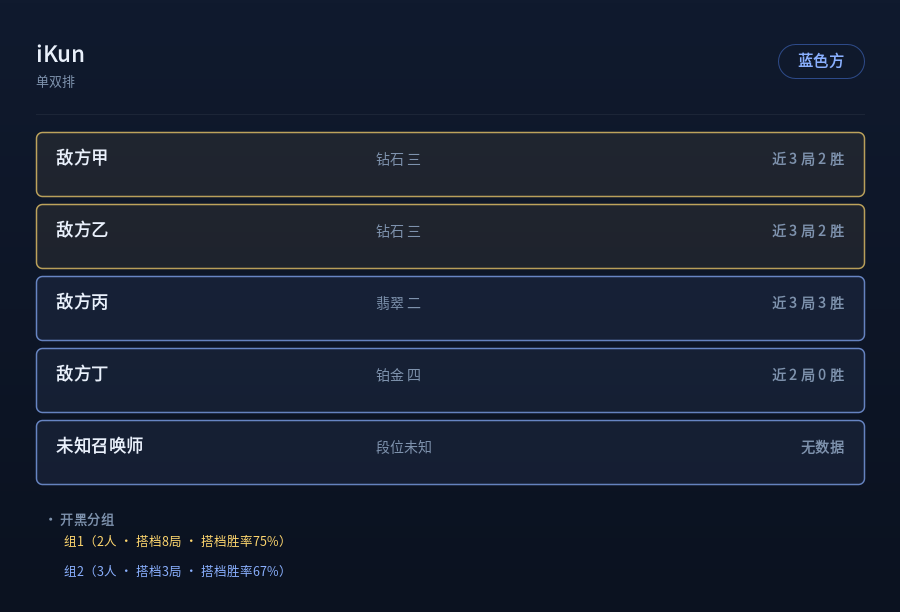
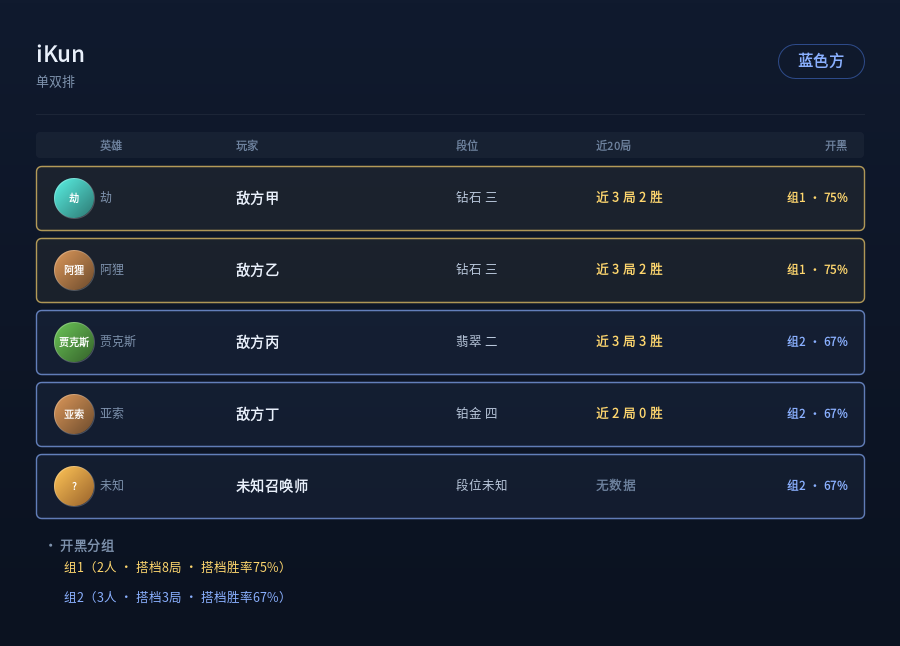
feat(intel): 情报卡改表格布局 + 英雄头像/英雄名上卡
- 渲染器改为 E 变体（数据密集表格）：英雄头像+英雄名+玩家名+段位+胜率+开黑列
- EnemyIntel.EnemyPlayer 加 championId/championName
- 编排层从段位快照读 championId 并经 GameDataService 转英雄中文名
- 渲染器注入 ChampionIconService 绘制真实英雄头像（失败降级色块圆盘）
- 迁移 V12：enemy_scout_rank 加 champion_id 字段
- ingest 存 championId（upsert 覆盖更新）
- 全量 370 测试通过

diff --git a/src/main/java/com/leagueakari/intel/IntelCardRendererImpl.java b/src/main/java/com/leagueakari/intel/IntelCardRendererImpl.java
@@ -11,6 +11,7 @@ import java.awt.FontMetrics;
 import java.awt.GradientPaint;
 import java.awt.Graphics2D;
 import java.awt.RenderingHints;
+import java.awt.geom.Ellipse2D;
 import java.awt.image.BufferedImage;
 import java.io.ByteArrayOutputStream;
 import java.io.IOException;
@@ -49,6 +50,15 @@ public class IntelCardRendererImpl implements IntelCardRenderer {
     private static final Color GOLD = new Color(0xffd76e);
     private static final Color ROW_BG = new Color(255, 255, 255, 9);
     private static final Color ROW_BORDER = new Color(255, 255, 255, 13);
+    private static final Color TEXT_KDA = new Color(0xb9c7db);
+
+    /** 英雄头像降级色块色板：按 championId 取模 */
+    private static final int[] HERO_COLORS = {
+            0xd98a3d, 0x2f6fdd, 0xa05ce6, 0xe0a21e, 0x3fa9a0,
+            0xc0392b, 0x4b8a3d, 0x7f5fc0, 0xb5532f, 0x3a7d5c,
+            0x5b8cff, 0xd94f6b, 0x4d9e8f, 0x9a6b3f, 0x6b5fd9,
+            0xcf7a3a, 0x2f8f6f, 0xb04d5a
+    };
 
     /** 开黑分组边框色板：按组序号取模（同组同色，视觉分组） */
     private static final Color[] GROUP_COLORS = {
@@ -64,6 +74,19 @@ public class IntelCardRendererImpl implements IntelCardRenderer {
     /** 内置思源黑体（classpath），懒加载一次 */
     private static volatile Font baseFont;
 
+    /** 英雄头像服务（null 时全部降级色块圆盘，供单测/降级路径） */
+    private final com.leagueakari.gamedata.ChampionIconService iconService;
+
+    /** 无头构造：不注入头像服务，头像一律降级色块圆盘（单测友好） */
+    public IntelCardRendererImpl() {
+        this.iconService = null;
+    }
+
+    /** Spring 构造：注入头像服务，绘制真实英雄头像 */
+    public IntelCardRendererImpl(com.leagueakari.gamedata.ChampionIconService iconService) {
+        this.iconService = iconService;
+    }
+
     @Override
     public byte[] render(EnemyIntel intel) {
         int height = layoutHeight(intel);
@@ -77,19 +100,20 @@ public class IntelCardRendererImpl implements IntelCardRenderer {
 
             int y = PAD;
             y = drawHeader(g, intel, y);
-            y = drawEnemies(g, intel, y);
+            y = drawTable(g, intel, y);
             return toPngBytes(image);
         } finally {
             g.dispose();
         }
     }
 
-    /** 卡片总高度：标题区 + 敌方行数 + 分组区 + 底边距 */
+    /** 卡片总高度：标题区 + 表头 + 敌方行数 + 分组区 + 底边距 */
     private int layoutHeight(EnemyIntel intel) {
         int headerH = 96;
+        int tableHeaderH = 34;
         int enemiesH = intel.getEnemies().size() * ROW_H;
         int groupsH = intel.getPremadeGroups().isEmpty() ? 40 : (36 + intel.getPremadeGroups().size() * 30);
-        return PAD + headerH + enemiesH + groupsH + 24;
+        return PAD + headerH + tableHeaderH + enemiesH + groupsH + 24;
     }
 
     /** 标题区：车队名 + 红蓝方胶囊 + 队列名 */
@@ -122,9 +146,9 @@ public class IntelCardRendererImpl implements IntelCardRenderer {
         return y + 96;
     }
 
-    /** 敌方 5 人行 + 开黑分组视觉 */
-    private int drawEnemies(Graphics2D g, EnemyIntel intel, int y) {
-        // 分组索引映射：puuid → 组序号（-1 = 未分组）
+    /** E 变体：数据密集表格（表头 + 每行头像/英雄名/玩家名/段位/胜率/开黑） */
+    private int drawTable(Graphics2D g, EnemyIntel intel, int y) {
+        // 分组索引映射：puuid → 组序号
         Map<String, Integer> groupIndexOf = new HashMap<>();
         List<PremadeDetector.PremadeGroup> groups = intel.getPremadeGroups();
         for (int i = 0; i < groups.size(); i++) {
@@ -132,47 +156,123 @@ public class IntelCardRendererImpl implements IntelCardRenderer {
                 groupIndexOf.put(puuid, i);
             }
         }
-
-        for (int i = 0; i < intel.getEnemies().size(); i++) {
-            EnemyIntel.EnemyPlayer e = intel.getEnemies().get(i);
-            int ry = y + i * ROW_H;
-            Integer groupIdx = groupIndexOf.get(e.getPuuid());
-            drawEnemyRow(g, e, ry, groupIdx);
+        // 组胜率（组序号 → PremadeWinRate，行内展示搭档胜率）
+        Map<Integer, EnemyIntel.PremadeWinRate> wrByGroup = new HashMap<>();
+        List<EnemyIntel.PremadeWinRate> winRates = intel.getPremadeWinRates();
+        for (int i = 0; i < groups.size(); i++) {
+            wrByGroup.put(i, winRates != null && i < winRates.size() ? winRates.get(i) : null);
         }
 
-        int groupsY = y + intel.getEnemies().size() * ROW_H + 12;
-        return drawGroups(g, intel, groupsY);
+        // 表头
+        int headerY = y;
+        drawTableHeader(g, headerY);
+
+        // 数据行
+        int rowY = y + 34;
+        for (int i = 0; i < intel.getEnemies().size(); i++) {
+            EnemyIntel.EnemyPlayer e = intel.getEnemies().get(i);
+            Integer groupIdx = groupIndexOf.get(e.getPuuid());
+            drawTableRow(g, e, rowY, i, groupIdx, groupIdx != null ? wrByGroup.get(groupIdx) : null);
+            rowY += ROW_H;
+        }
+
+        // 开黑分组说明（表格下方）
+        return drawGroups(g, intel, rowY + 4);
     }
 
-    /** 单个敌方玩家行：召唤师名 + 段位 + 窗口胜率 */
-    private void drawEnemyRow(Graphics2D g, EnemyIntel.EnemyPlayer e, int ry, Integer groupIdx) {
+    /** 表头：英雄 / 玩家 / 段位 / 近20局 / 开黑 */
+    private void drawTableHeader(Graphics2D g, int y) {
+        Font hf = font(11, Font.BOLD);
+        g.setColor(new Color(255, 255, 255, 10));
+        g.fillRoundRect(PAD, y, WIDTH - 2 * PAD, 26, 8, 8);
+        drawText(g, "英雄", PAD + 64, y + 18, hf, TEXT_DIM, LEFT);
+        drawText(g, "玩家", PAD + 200, y + 18, hf, TEXT_DIM, LEFT);
+        drawText(g, "段位", PAD + 420, y + 18, hf, TEXT_DIM, LEFT);
+        drawText(g, "近20局", PAD + 560, y + 18, hf, TEXT_DIM, LEFT);
+        drawText(g, "开黑", WIDTH - PAD - 16, y + 18, hf, TEXT_DIM, RIGHT);
+    }
+
+    /** 单个敌方玩家数据行 */
+    private void drawTableRow(Graphics2D g, EnemyIntel.EnemyPlayer e, int ry, int idx,
+                              Integer groupIdx, EnemyIntel.PremadeWinRate groupWr) {
         int rowH = ROW_H - 8;
-        // 行底（开黑组边框高亮，否则普通半透明底）
+        // 行底：开黑组边框高亮，否则普通半透明底
         Color border = ROW_BORDER;
         Color bg = ROW_BG;
         if (groupIdx != null) {
             Color gc = GROUP_COLORS[groupIdx % GROUP_COLORS.length];
-            border = new Color(gc.getRed(), gc.getGreen(), gc.getBlue(), 180);
-            bg = new Color(gc.getRed(), gc.getGreen(), gc.getBlue(), 18);
+            border = new Color(gc.getRed(), gc.getGreen(), gc.getBlue(), 170);
+            bg = new Color(gc.getRed(), gc.getGreen(), gc.getBlue(), 14);
         }
         g.setColor(bg);
-        g.fillRoundRect(PAD, ry, WIDTH - 2 * PAD, rowH, 12, 12);
+        g.fillRoundRect(PAD, ry, WIDTH - 2 * PAD, rowH, 10, 10);
         g.setColor(border);
-        g.setStroke(new BasicStroke(groupIdx != null ? 1.5f : 1f));
-        g.drawRoundRect(PAD, ry, WIDTH - 2 * PAD, rowH, 12, 12);
+        g.setStroke(new BasicStroke(groupIdx != null ? 1.4f : 1f));
+        g.drawRoundRect(PAD, ry, WIDTH - 2 * PAD, rowH, 10, 10);
 
-        // 左：召唤师名（缺失 → 未知）
+        int cy = ry + rowH / 2;
+        // 列1：头像（圆形裁切）+ 英雄名
+        drawAvatar(g, PAD + 18, cy - 20, 40, e);
+        drawText(g, e.getChampionName() == null ? "未知" : e.getChampionName(),
+                PAD + 64, cy + 4, font(12, Font.PLAIN), TEXT_SUB, LEFT);
+
+        // 列2：玩家名
         String name = e.getSummonerName() == null ? "未知召唤师" : e.getSummonerName();
-        drawTextFit(g, name, PAD + 20, ry + 32, font(17, Font.BOLD), TEXT_MAIN, 300);
+        drawTextFit(g, name, PAD + 200, cy + 5, font(14, Font.BOLD), TEXT_MAIN, 190);
 
-        // 中：段位（tier+rank，缺失 → 未知）
-        String rank = formatTier(e);
-        drawText(g, rank, PAD + 340, ry + 32, font(14, Font.PLAIN), TEXT_SUB, LEFT);
+        // 列3：段位
+        drawText(g, formatTier(e), PAD + 420, cy + 4, font(12.5f, Font.PLAIN), TEXT_KDA, LEFT);
 
-        // 右：窗口胜率（小样本标局数，不裸百分比）
+        // 列4：近20局窗口胜率
         String winRate = formatWinRate(e);
-        Color wrColor = winRate.startsWith("胜") ? GOLD : TEXT_SUB;
-        drawText(g, winRate, WIDTH - PAD - 20, ry + 32, font(14, Font.BOLD), wrColor, RIGHT);
+        Color wrColor = winRate.startsWith("近") && !winRate.contains("无数据") ? GOLD : TEXT_DIM;
+        drawText(g, winRate, PAD + 560, cy + 4, font(12.5f, Font.BOLD), wrColor, LEFT);
+
+        // 列5：开黑标识（组标签 + 搭档胜率）
+        if (groupIdx != null) {
+            Color gc = GROUP_COLORS[groupIdx % GROUP_COLORS.length];
+            String label = String.format("组%d · %s", groupIdx + 1, formatPremadeWinRate(groupWr));
+            drawText(g, label, WIDTH - PAD - 16, cy + 4, font(11.5f, Font.BOLD), gc, RIGHT);
+        } else {
+            drawText(g, "路人", WIDTH - PAD - 16, cy + 4, font(11.5f, Font.PLAIN), TEXT_DIM, RIGHT);
+        }
+    }
+
+    /** 英雄头像（圆形裁切）；无图标服务或加载失败降级色块圆盘 */
+    private void drawAvatar(Graphics2D g, int x, int y, int diameter, EnemyIntel.EnemyPlayer e) {
+        Integer championId = e.getChampionId();
+        BufferedImage icon = iconService == null || championId == null || championId <= 0
+                ? null : iconService.loadIcon(championId);
+        if (icon == null) {
+            drawHeroDot(g, x, y, diameter, e.getChampionName(), championId == null ? 0 : championId);
+            return;
+        }
+        Graphics2D g2 = (Graphics2D) g.create();
+        try {
+            g2.setClip(new Ellipse2D.Double(x, y, diameter, diameter));
+            g2.setRenderingHint(RenderingHints.KEY_INTERPOLATION, RenderingHints.VALUE_INTERPOLATION_BILINEAR);
+            g2.drawImage(icon, x, y, diameter, diameter, null);
+        } finally {
+            g2.dispose();
+        }
+        g.setColor(new Color(255, 255, 255, 60));
+        g.setStroke(new BasicStroke(1f));
+        g.draw(new Ellipse2D.Double(x + 0.5, y + 0.5, diameter - 1, diameter - 1));
+    }
+
+    /** 英雄色块圆盘降级底：渐变圆 + 中央英雄名 */
+    private void drawHeroDot(Graphics2D g, int x, int y, int diameter, String championName, int championId) {
+        int c = HERO_COLORS[Math.floorMod(championId, HERO_COLORS.length)];
+        Color a = new Color(c);
+        g.setPaint(new GradientPaint(x, y, a.brighter(), x + diameter, y + diameter, a.darker()));
+        g.fill(new Ellipse2D.Double(x, y, diameter, diameter));
+        g.setColor(new Color(255, 255, 255, 60));
+        g.setStroke(new BasicStroke(1f));
+        g.draw(new Ellipse2D.Double(x, y, diameter, diameter));
+        String name = championName == null ? "?" : championName;
+        int size = name.length() > 4 ? 8 : 10;
+        drawText(g, name, x + diameter / 2f, y + diameter / 2f + size / 2f - 1,
+                font(size, Font.BOLD), Color.WHITE, CENTER);
     }
 
     /** 开黑分组说明区 */

diff --git a/src/main/java/com/leagueakari/intel/IntelBroadcastService.java b/src/main/java/com/leagueakari/intel/IntelBroadcastService.java
@@ -60,6 +60,8 @@ public class IntelBroadcastService {
     private final PushProperties pushProperties;
     private final TeamProperties teamProperties;
     private final com.leagueakari.config.IntelProperties intelProperties;
+    /** 游戏静态资源：英雄 ID → 中文名（情报卡英雄名展示） */
+    private final com.leagueakari.gamedata.GameDataService gameDataService;
 
     private final ObjectMapper objectMapper = new ObjectMapper();
 
@@ -207,7 +209,7 @@ public class IntelBroadcastService {
         List<EnemyScoutMatch> matchRows = scoutMatchMapper.selectList(
                 new QueryWrapper<EnemyScoutMatch>().in("puuid", enemyPuids));
 
-        // 玩家行：段位 + 窗口胜率
+        // 玩家行：段位 + 窗口胜率 + 英雄（ID/中文名）
         List<EnemyIntel.EnemyPlayer> players = new ArrayList<>();
         for (String puuid : enemyPuids) {
             EnemyScoutRank rank = rankByPuuid.get(puuid);
@@ -218,12 +220,18 @@ public class IntelBroadcastService {
                     .toList();
             WindowWinRate winRate = WindowWinRate.of(puuid, wins);
             String summonerName = rank != null ? rank.getSummonerName() : firstSummonerName(matchRows, puuid);
+            // 英雄 ID 与中文名：段位快照携带的 championId，经 GameDataService 转换
+            Integer championId = rank != null ? rank.getChampionId() : null;
+            String championName = championId != null && championId > 0
+                    ? gameDataService.championName(championId) : null;
             players.add(new EnemyIntel.EnemyPlayer(
                     puuid,
                     summonerName,
                     rank != null ? rank.getTier() : null,
                     rank != null ? rank.getRank() : null,
-                    winRate));
+                    winRate,
+                    championId,
+                    championName));
         }
 
         // 开黑判定：把历史摘要按局聚合为同队分组，喂给 PremadeDetector

diff --git a/src/test/java/com/leagueakari/intel/IntelCardRendererImplTest.java b/src/test/java/com/leagueakari/intel/IntelCardRendererImplTest.java
@@ -93,11 +93,11 @@ class IntelCardRendererImplTest {
     void 生成样张归档() throws Exception {
         EnemyIntel intel = new EnemyIntel("iKun", 100, "单双排",
                 List.of(
-                        new EnemyIntel.EnemyPlayer("p1", "敌方甲", "DIAMOND", "III", WindowWinRate.of("p1", List.of(true, true, false))),
-                        new EnemyIntel.EnemyPlayer("p2", "敌方乙", "DIAMOND", "III", WindowWinRate.of("p2", List.of(true, false, true))),
-                        new EnemyIntel.EnemyPlayer("p3", "敌方丙", "EMERALD", "II", WindowWinRate.of("p3", List.of(true, true, true))),
-                        new EnemyIntel.EnemyPlayer("p4", "敌方丁", "PLATINUM", "IV", WindowWinRate.of("p4", List.of(false, false))),
-                        new EnemyIntel.EnemyPlayer("p5", null, null, null, WindowWinRate.of("p5", List.of()))
+                        new EnemyIntel.EnemyPlayer("p1", "敌方甲", "DIAMOND", "III", WindowWinRate.of("p1", List.of(true, true, false)), 238, "劫"),
+                        new EnemyIntel.EnemyPlayer("p2", "敌方乙", "DIAMOND", "III", WindowWinRate.of("p2", List.of(true, false, true)), 103, "阿狸"),
+                        new EnemyIntel.EnemyPlayer("p3", "敌方丙", "EMERALD", "II", WindowWinRate.of("p3", List.of(true, true, true)), 24, "贾克斯"),
+                        new EnemyIntel.EnemyPlayer("p4", "敌方丁", "PLATINUM", "IV", WindowWinRate.of("p4", List.of(false, false)), 157, "亚索"),
+                        new EnemyIntel.EnemyPlayer("p5", null, null, null, WindowWinRate.of("p5", List.of()), null, null)
                 ),
                 List.of(
                         new PremadeDetector.PremadeGroup(List.of("p1", "p2"), 8, List.of("m1", "m2", "m3", "m4", "m5", "m6", "m7", "m8")),

diff --git a/src/main/java/com/leagueakari/intel/EnemyIntel.java b/src/main/java/com/leagueakari/intel/EnemyIntel.java
@@ -38,6 +38,8 @@ public class EnemyIntel {
      * @param tier         大段位（缺失为 null，渲染"未知"）
      * @param rank         小段
      * @param winRate      窗口胜率（窗口内无对局为 null，渲染"无数据"）
+     * @param championId   选人阶段锁定的英雄 ID（渲染头像用；缺失为 null）
+     * @param championName 英雄中文名（缺失为 null，渲染"未知英雄"）
      */
     @Value
     public static class EnemyPlayer {
@@ -46,6 +48,25 @@ public class EnemyIntel {
         String tier;
         String rank;
         WindowWinRate winRate;
+        Integer championId;
+        String championName;
+
+        /** 全参构造（含英雄信息）：真实发卡路径用 */
+        public EnemyPlayer(String puuid, String summonerName, String tier, String rank,
+                           WindowWinRate winRate, Integer championId, String championName) {
+            this.puuid = puuid;
+            this.summonerName = summonerName;
+            this.tier = tier;
+            this.rank = rank;
+            this.winRate = winRate;
+            this.championId = championId;
+            this.championName = championName;
+        }
+
+        /** 便捷构造（无英雄信息）：测试/降级场景用，championId/championName 置 null */
+        public EnemyPlayer(String puuid, String summonerName, String tier, String rank, WindowWinRate winRate) {
+            this(puuid, summonerName, tier, rank, winRate, null, null);
+        }
     }
 
     /**

diff --git a/src/main/java/com/leagueakari/intel/ScoutIngestService.java b/src/main/java/com/leagueakari/intel/ScoutIngestService.java
@@ -75,12 +75,13 @@ public class ScoutIngestService {
         Long exists = rankMapper.selectCount(
                 new QueryWrapper<EnemyScoutRank>().eq("puuid", p.getPuuid()));
         if (exists != null && exists > 0) {
-            // 已存在：覆盖更新（改名/升段）
+            // 已存在：覆盖更新（改名/升段/英雄）
             rankMapper.update(new EnemyScoutRank(), new UpdateWrapper<EnemyScoutRank>()
                     .set("summoner_name", p.getSummonerName())
                     .set("queue_type", p.getQueueType())
                     .set("tier", p.getTier())
                     .set("rank", p.getRank())
+                    .set("champion_id", p.getChampionId())
                     .eq("puuid", p.getPuuid()));
             return;
         }
@@ -91,6 +92,7 @@ public class ScoutIngestService {
         rank.setQueueType(p.getQueueType());
         rank.setTier(p.getTier());
         rank.setRank(p.getRank());
+        rank.setChampionId(p.getChampionId());
         rank.setCreatedAt(LocalDateTime.now());
         rank.setUpdatedAt(LocalDateTime.now());
         rankMapper.insert(rank);

diff --git a/src/test/java/com/leagueakari/intel/IntelBroadcastServiceTest.java b/src/test/java/com/leagueakari/intel/IntelBroadcastServiceTest.java
@@ -47,6 +47,8 @@ class IntelBroadcastServiceTest {
     private QqBotClient qqBotClient;
     @Mock
     private IntelCardRenderer renderer;
+    @Mock
+    private com.leagueakari.gamedata.GameDataService gameDataService;
 
     private PushProperties pushProperties;
     private TeamProperties teamProperties;
@@ -67,7 +69,8 @@ class IntelBroadcastServiceTest {
         intelProperties.setPremadeDetectThreshold(2);
         service = new IntelBroadcastService(
                 gameStartMapper, scoutMatchMapper, scoutRankMapper,
-                rosterService, qqBotClient, renderer, pushProperties, teamProperties, intelProperties);
+                rosterService, qqBotClient, renderer, pushProperties, teamProperties, intelProperties,
+                gameDataService);
     }
 
     /** 造一个车队成员（身份集合含 p1/p2） */

diff --git a/src/main/java/com/leagueakari/dto/intel/ScoutSyncRequest.java b/src/main/java/com/leagueakari/dto/intel/ScoutSyncRequest.java
@@ -42,6 +42,9 @@ public class ScoutSyncRequest {
 
         /** 小段（如 I/II/III/IV） */
         private String rank;
+
+        /** 选人阶段锁定的英雄 ID（情报卡英雄头像/英雄名原料） */
+        private Integer championId;
     }
 
     /** 一局历史对局摘要（同队共现与胜负原料） */

diff --git a/src/main/java/com/leagueakari/entity/EnemyScoutRank.java b/src/main/java/com/leagueakari/entity/EnemyScoutRank.java
@@ -35,6 +35,9 @@ public class EnemyScoutRank {
     /** 小段（如 I/II/III/IV） */
     private String rank;
 
+    /** 选人阶段锁定的英雄 ID（情报卡英雄头像/英雄名原料；未锁定为 null） */
+    private Integer championId;
+
     /** 首次入库时间 */
     private LocalDateTime createdAt;
 
